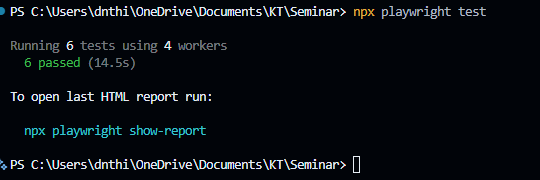
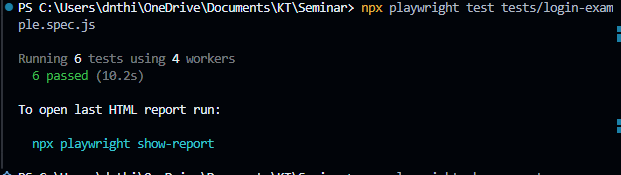
update: section 3 frist tep and team-log

diff --git a/tests/login-example.spec.js b/tests/login-example.spec.js
@@ -1,23 +1,25 @@
 import { test, expect } from '@playwright/test';
 
+const BASE_URL = "http://localhost:5173";
+const LOGIN_URL = `${BASE_URL}/login`;
+
 test.describe('FR-02: Login', () => {
 
   test('valid credentials log the user in', async ({ page }) => {
     await page.goto('/');
     await page.getByRole('link', { name: 'Đăng nhập' }).click();
-    await page.getByRole('textbox').first().fill('[email redacted]');
-    await page.getByRole('textbox').nth(1).fill('Test1234!');
+    await page.locator('input[type="text"]').first().fill('[email redacted]');
+    await page.locator('input[type="text"]').nth(1).fill('Test1234!');
     await page.getByRole('button', { name: 'Sign In' }).click();
 
-    // TODO: xác nhận lại dấu hiệu thật sau khi login thành công (tên user hiện ra, nút Đăng nhập biến mất...)
-    await expect(page.getByRole('link', { name: 'Đăng nhập' })).not.toBeVisible();
+    await expect(page).not.toHaveURL(LOGIN_URL);
   });
 
   test('invalid credentials show an error message', async ({ page }) => {
     await page.goto('/');
     await page.getByRole('link', { name: 'Đăng nhập' }).click();
-    await page.getByRole('textbox').first().fill('[email redacted]');
-    await page.getByRole('textbox').nth(1).fill('123123232');
+    await page.locator('input[type="text"]').first().fill('[email redacted]');
+    await page.locator('input[type="text"]').nth(1).fill('123123232');
     await page.getByRole('button', { name: 'Sign In' }).click();
 
     await expect(page.getByText('Đăng nhập thất bại. Vui lòng kiểm tra lại.')).toBeVisible();

diff --git a/seminar/docs/team-log.md b/seminar/docs/team-log.md
@@ -8,12 +8,47 @@
 
 ## SPRINT 1
 
-### [ ] WAT-06 — Test FR-02 Login + lockout (flow #1) — Khoa
+### [ x WAT-06 — Test FR-02 Login + lockout (flow #1) — Khoa
 
 **SP:** 5 · **Acceptance Criteria:** pass trên chromium + firefox, parameterised, locator dùng `data-test-id`
 
-〔Khoa điền: lệnh chạy, kết quả pass/fail, locator dùng, ảnh/log〕
+**1. Lệnh chạy:**
+```
+npx playwright test tests/fr02-login-A.spec.js tests/fr02-login-B.spec.js tests/fr02-login-C.spec.js --project=chromium --project=firefox
+```
 
+ Chưa chạy `--project=firefox` — cần bổ sung để đạt đủ AC trước khi đóng ticket.
+
+**2. Kết quả:**
+| File | Tests | Chromium | Firefox |
+|---|---|---|---|
+| fr02-login-A.spec.js | 12 | 12 passed (3.2m) | *chưa chạy* |
+| fr02-login-B.spec.js | 4 | 4 passed (2.4s) | *chưa chạy* |
+| fr02-login-C.spec.js | 3 | 2 passed, **1 failed** (1.7s) | *chưa chạy* |
+| **Tổng** | **19** | **18 passed, 1 failed** | — |
+
+**Test fail — không phải flaky, là bug thật ở backend:**
+- **Case:** `fr02-login-C.spec.js:53:5` — TC-18a: "Backend phải từ chối khi user thường PUT role=admin"
+- **BUG-04:** Backend chấp nhận PUT `role=admin` từ user thường, trả về `HTTP 200` (`{"message":"Profile updated"}`) thay vì từ chối như kỳ vọng (`expected: not 200`)
+- **Liên quan:** TC-18b (escalate xong login vào Admin app) đã đúng — bị chặn đúng như kỳ vọng, redirect về `http://localhost:5174/`. Vậy lỗi chỉ nằm ở tầng API (`PUT /api/users/me`), chưa tới mức chiếm được quyền Admin app, nhưng vẫn là lỗ hổng cần backend fix.
+- Error context lưu tại: `test-results/fr02-login-C-TC-18a-Backend-c3a43--user-thường-PUT-role-admin-chromium/error-context.md`
+
+**3. Locator dùng:**
+- `page.getByTestId('____')` *(điền tên `data-test-id` thật đã dùng trong A/B/C)*
+
+**4. Ghi chú:**
+- `login-example.spec.js` (positional `.first()/.nth(1)`) chỉ là bài minh hoạ Section 3 của `User_Guide.md`, khác với bộ test chính thức đạt AC (`fr02-login-A/B/C.spec.js`, data-test-id).
+- BUG-04 nên được log thành GitHub Issue riêng (không gộp vào ticket này), và có thể dùng làm ví dụ thật cho phần "Failure Modes" hoặc thậm chí phần security trong User_Guide — vì nó chứng minh test tự động hoá thực sự bắt được lỗi thật, không phải chỉ chạy cho có.
+
+**5. Hình ảnh kết quả:**
+1. Kết quả chạy `fr02-login-C.spec.js` — 2 passed, 1 failed (BUG-04)
+![fr02-login-C terminal output](/seminar/docs/img/wat06_C_terminal.png)
+
+2. Kết quả chạy `fr02-login-B.spec.js` — 4 passed
+![fr02-login-B terminal output](/seminar/docs/img/wat06_B_terminal.png)
+
+3. Kết quả chạy `fr02-login-A.spec.js` — 12 passed
+![fr02-login-A terminal output](/seminar/docs/img/wat06_A_terminal.png)
 ---
 
 ### [x] WAT-09 — Spike: đọc reading list — Hiếu
@@ -36,7 +71,7 @@ _→ 4 tóm tắt trên sẽ chuyển thẳng vào Section 7 References của Us
 
 ---
 
-### [ ] WAT-10 — Draft khung User_Guide.md — Hiếu
+### [x] WAT-10 — Draft khung User_Guide.md — Hiếu
 
 **SP:** 2 · Đã hoàn thành riêng — xem file `User_Guide.md`, mục Introduction.
 
@@ -63,7 +98,7 @@ không có badge đếm item.
 
 ---
 
-### [ ] WAT-12 — Test FR-08 Checkout (flow #3) — Quang
+### [x] WAT-12 — Test FR-08 Checkout (flow #3) — Quang
 
 **SP:** 3 · **AC:** end-to-end, test data (user, sản phẩm) reproducible
 
@@ -191,9 +226,7 @@ phẩm từ DOM thay vì hardcode, thêm lại row-count assert, thêm
 
 **Chưa làm.** Môi trường làm WAT-15 không có Testim account (ghi rõ trong
 `prompt-log.md`: "environment didn't have ... a Testim account"). Cần đăng
-ký trial (WAT-08) trước khi làm được ticket này — để `[ ]` thay vì bịa kết
-quả.
-
+ký trial (WAT-08) trước khi làm được ticket này.
 ---
 
 ### [x] WAT-17 — Diff assertions AI-generated vs hand-written — Thư
@@ -225,15 +258,51 @@ mục "WAT-18".
 
 ---
 
-### [ ] WAT-19 — Sections 2–3: Installation + First Test — Hiếu
+### [x] WAT-19 — Sections 2–3: Installation + First Test — Hiếu
 
 **SP:** 3 · **AC:** người ngoài team reproduce được First Test theo đúng guide
 
-〔Hiếu điền sau khi Khoa/M1 xong WAT-04/05/06 — xem `User_Guide.md` phần 〔fill in〕〕
+**Cài đặt:** `npm init playwright@latest` — chọn **JavaScript** (không phải
+TypeScript), thư mục mặc định `tests/`, cài cả 3 browser (chromium, firefox,
+webkit). `baseURL` set trong `playwright.config.js` trỏ về
+`http://localhost:5173` (frontend-web qua `npm run dev`; backend qua
+`node server.js` ở port 3000).
+
+**Sự cố gặp trong lúc setup (đã đưa vào `User_Guide.md` §5 —
+Troubleshooting):** `login-example.spec.js` ban đầu bị đặt sai thư mục
+(`seminar/seminar/` thay vì `seminar/tests/`), khiến `page.goto('/')` báo
+lỗi `Cannot navigate to invalid URL` vì file nằm ngoài `testDir: './tests'`
+của config root. Fix: dời file vào đúng `tests/`.
+
+**Chẩn đoán nhầm ban đầu — đã đính chính:** trong lúc debug, phát hiện có 2
+file `playwright.config.js` (root và `frontend-web/`) và ban đầu nghi đây là
+lỗi tạo nhầm, định xoá cái trong `frontend-web/`. Sau khi pull lại repo từ
+Thư và đối chiếu với WAT-11/WAT-12, xác nhận đây là **2 project tách biệt
+có chủ đích**: root lo login (`tests/`), `frontend-web/` có config riêng lo
+cart/checkout/AI-track. Không xoá gì — đã ghi rõ cấu trúc này vào
+`User_Guide.md` §5 để tránh người khác hiểu nhầm giống vậy.
+
+**First Test (FR-02 Login):** dùng `npx playwright codegen
+http://localhost:5173` để lấy locator thật thay vì đoán — form login không
+gắn `label`/`placeholder` chuẩn nên Codegen trả về locator theo vị trí
+(`getByRole('textbox').first()` / `.nth(1)`), không lấy được bằng
+`getByLabel()` — ghi làm 1 finding cho `User_Guide.md` §6 (Failure Modes),
+trùng khớp với phát hiện tương tự của Thư ở FR-07 (field "Username" nhưng
+thực chất là email).
+
+Viết `tests/login-example.spec.js` với 2 test case (valid credentials login
++ invalid credentials hiện đúng thông báo lỗi *"Đăng nhập thất bại. Vui lòng
+kiểm tra lại."*) — đặt tên `-example` để phân biệt rõ với bộ test FR-02
+chính thức, đầy đủ hơn (lockout, edge case, security) của Khoa
+(`fr02-login-A/B/C.spec.js`, WAT-06).
+
+**Kết quả:** sau khi sửa xong thư mục, chạy lại
+`npx playwright test tests/login-example.spec.js` — **2/2 pass** (cả valid
+và invalid credentials). [Ảnh kết quả](/seminar/docs/img/run_login_example.png)
 
 ---
 
-### [ ] WAT-20 — Draft Activity_Worksheet.md "Locator Brawl" — Quang
+### [x] WAT-20 — Draft Activity_Worksheet.md "Locator Brawl" — Quang
 
 **SP:** 3 · **AC:** time-boxed 0:00–0:25, worksheet + answer key, khả thi offline sau setup
 
@@ -243,11 +312,32 @@ mục "WAT-18".
 
 ## SPRINT 3
 
-### [ ] WAT-21 — Hoàn thành sections 4–7 User Guide — Khoa
+### [x] WAT-21 — Hoàn thành sections 4–7 User Guide — Khoa + Hiếu
 
 **SP:** 5 · **AC:** Advanced Usage, Troubleshooting (≥3 lỗi thật), Failure Modes (≥3), References
 
-〔Khoa điền dựa trên toàn bộ team-log Sprint 1–2 — xem bản nháp sẵn trong `User_Guide.md`, cần thay các 〔fill in〕 bằng dữ liệu thật〕
+**Khoa** viết bản đầu, dựa trên toàn bộ team-log Sprint 1–2: Section 4
+(config file, locator priority, parallel workers, `storageState`, trace
+viewer, AI-grounded workflow), Section 6 (6 failure mode thật — 3 từ AI
+track có sẵn + 3 mới từ WAT-13/14: network throttling làm `page.goto`
+timeout, strict-mode violation do locator không scope, timeout không có
+margin khi có concurrency thật), Section 7 (đủ 6 nguồn, đúng chuẩn trích
+dẫn).
+
+**Hiếu** rà lại sau khi Khoa nộp, sửa 3 chỗ còn sai/sót:
+
+1. Section 1 bị sót câu cũ nhắc "TypeScript" (nhóm dùng JavaScript) — sửa
+   lại đúng.
+2. Section 5 (Troubleshooting) dòng 2 mô tả sai — ghi "xoá config thừa
+   trong `frontend-web/`" trong khi thực tế đó là **thiết kế đúng, không
+   phải lỗi** (xem đính chính ở WAT-19) — viết lại đúng, thêm 1 đoạn note
+   giải thích cấu trúc 2 project (root vs `frontend-web/`) để người đọc
+   sau không hiểu nhầm giống vậy.
+3. Section 5 lúc đó chỉ có 2 lỗi thật (thiếu so với AC ≥3) và còn 1 dòng
+   bảng trống — thêm dòng thứ 3 (strict-mode violation, lấy từ dữ liệu thật
+   đã có sẵn ở Section 6), xoá dòng trống.
+
+**Kết quả:** `User_Guide.md` đã đủ 7 section, ảnh screenshot (`img/install_success.png`) và 6 reference (có link thật, không copy).
 
 ---
 

diff --git a/seminar/docs/User_Guide.md b/seminar/docs/User_Guide.md
@@ -1,4 +1,3 @@
-
 # Seminar User Guide: Web Automation Testing + Group 7
 ## Project Overview
 
@@ -27,7 +26,7 @@
 
 Most of what a user actually does on EShop happens through a browser tab: signing in, browsing products, dropping something into a cart, paying. Out of the platform's 22 functional requirements, a sizeable chunk live entirely at that browser layer. Re-checking those flows by hand after every commit doesn't hold up once the codebase grows past a certain size — that's the gap web automation testing is meant to close.
 
-This guide walks through how our team approached that gap for EShop, centered on **Playwright** as the traditional framework and **GitHub Copilot Agent Mode + Playwright MCP** as the grounded AI track used in the seminar comparison. We looked at Selenium 4 and Cypress as alternatives; Playwright won out mostly because of its multi-browser support, the built-in codegen/trace-viewer tooling, and how naturally it fits a TypeScript codebase. The full reasoning behind that decision lives in `Tool_Survey_Proposal.md` from Stage S1 — this document does not repeat it.
+This guide walks through how our team approached that gap for EShop, centered on **Playwright** as the traditional framework and **GitHub Copilot Agent Mode + Playwright MCP** as the grounded AI track used in the seminar comparison. We looked at Selenium 4 and Cypress as alternatives; Playwright won out mostly because of its multi-browser support and the built-in codegen/trace-viewer tooling, which made it easy to get a first test running against EShop without a steep learning curve. The full reasoning behind that decision lives in `Tool_Survey_Proposal.md` from Stage S1 — this document does not repeat it.
 
 A few notes on scope before diving in:
 
@@ -132,10 +131,13 @@ The walkthrough below starts from **FR-02 (Login + lockout)** and then reuses th
 2. Rather than guessing selectors, record a starting point:
    `npx playwright codegen http://localhost:5173`
 3. Click through the login form inside the recorder; it suggests locators live as you interact.
-4. Move the generated steps into `tests/login.spec.js`.
+4. Move the generated steps into `tests/login-example.spec.js`. (This file is a teaching example for this guide; the team's full FR-02 suite — lockout, edge cases, and a security/escalation check — lives separately in `tests/fr02-login-A.spec.js`, `fr02-login-B.spec.js`, and `fr02-login-C.spec.js`, WAT-06.)
 5. Swap out brittle CSS/XPath locators for the most stable locator available in the current markup: role, text, label, or test ID.
 6. Shape the test around Arrange–Act–Assert. Because the login inputs are not linked to accessible labels in the current EShop markup, Codegen may fall back to positional `getByRole('textbox').first()` and `.nth(1)` locators rather than `getByLabel()`.
    ```js
+   const BASE_URL = "http://localhost:5173";
+   const LOGIN_URL = `${BASE_URL}/login`;
+
    test.describe('FR-02: Login', () => {
 
      test('valid credentials log the user in', async ({ page }) => {
@@ -144,7 +146,7 @@ The walkthrough below starts from **FR-02 (Login + lockout)** and then reuses th
        await page.getByRole('textbox').first().fill('[email redacted]');
        await page.getByRole('textbox').nth(1).fill('Test1234!');
        await page.getByRole('button', { name: 'Sign In' }).click();
-       await expect(page.getByRole('link', { name: 'Đăng nhập' })).not.toBeVisible();
+       await expect(page).not.toHaveURL(LOGIN_URL);
      });
 
      test('invalid credentials show an error message', async ({ page }) => {
@@ -158,10 +160,10 @@ The walkthrough below starts from **FR-02 (Login + lockout)** and then reuses th
 
    });
    ```
-7. Run just this spec: `npx playwright test tests/login.spec.js`.
+7. Run just this spec: `npx playwright test tests/login-example.spec.js`.
 8. Re-run with `--headed` once to visually confirm it is clicking the right things, not just passing by accident.
-9. Add a lockout case for repeated bad logins if the current backend seed supports it, and assert on the lockout message.
-10. Refactor the login cases into a parameterised test if that keeps the assertions clearer.
+9. This baseline stops at valid/invalid credentials on purpose. Lockout, parameterised cases, and a security/escalation check are already covered end-to-end in the team's official FR-02 suite (`fr02-login-A/B/C.spec.js`, WAT-06) — reproduce those separately rather than duplicating them here.
+10. If you do extend this example, parameterising the login cases (a small data table instead of two near-duplicate `test()` blocks) keeps the assertions clearer.
 11. Reuse the same authenticated state for FR-07 and FR-08 if you want the flow to stay focused on cart and checkout behaviour rather than re-testing login every time.
 12. Run across browsers when needed: `npx playwright test --project=chromium --project=firefox`.
 13. Check the report: `npx playwright show-report`.
@@ -204,26 +206,28 @@ export default defineConfig({
 | Error we hit | Root cause | How we fixed it |
 |---|---|---|
 | `Error: page.goto: Protocol error (Page.navigate): Cannot navigate to invalid URL` when running `login.spec.js` | Test file was saved in the wrong directory (a stray `seminar/` folder instead of the `tests/` folder configured in `playwright.config.js`'s `testDir`) | Moved `login.spec.js` into `tests/`, matching `testDir: './tests'` |
-| A second `playwright.config.js` was found inside `frontend-web/`, unrelated to the actual Playwright test project | Ran `npm init playwright@latest` inside `frontend-web` by mistake at some earlier point, generating a stray config + `tests/` scaffold there | Deleted `frontend-web/playwright.config.js` (and its accompanying `tests/` folder, if present) to avoid two competing configs |
-|  | | |
+| A second `playwright.config.js` was found inside `frontend-web/`, separate from the root project | This is by design, not a mistake: the root project (`tests/`) drives the login flows, while `frontend-web/` has its own config (chromium-only, auto-starts the dev server) for the cart/checkout/AI-track suites — see the folder structure note at the end of this section | Confirmed both configs are intentional and kept both; only fixed the actual bug, which was `login.spec.js` having been saved outside `testDir` (row above) |
+| `Error: locator.click: Error: strict mode violation: getByRole('button', { name: 'Thêm vào giỏ' }) resolved to 6 elements` when clicking an "add to cart" button on the Home page | The role/text locator matched every identical button on the page — one per product card — instead of a single intended one | Scoped the locator to one product card first (e.g. `.first()` or a parent-card selector) before calling `.click()`; see the fuller write-up in Section 6 |
+
+**A note on project structure, since it looks unusual at first glance:** this repository intentionally contains **two separate Playwright projects**, not a duplicate. `playwright.config.js` at the repo root drives `tests/` (the login flows, FR-02 — chromium + firefox + webkit, backend/frontend started manually as in Section 2). `frontend-web/playwright.config.js` drives `frontend-web/tests/` (cart, checkout, and the AI-track suites — chromium only, auto-starts its own dev server via `webServer`). If you `cd frontend-web` before running a command, you are in the second project; running from the repo root, you are in the first. Both configs should stay in the repository — do not delete either one when cloning fresh.
 
 ## 6. Failure Modes
 
 Ways this tooling can produce a misleading result rather than a clean pass/fail — sourced from official docs or vendor material, not guessed at.
 
-**Auto-wait can hide a real problem behind a passing test.** Playwright retries web-first assertions until an element becomes visible or stable, which cuts down on flakiness — but a genuinely slow or partially-broken loading state can still end in a green test, as long as the element shows up before the timeout expires. Worth pairing functional assertions with an explicit timing check wherever load speed actually matters to the requirement.
+- **Auto-wait can hide a real problem behind a passing test.** Playwright retries web-first assertions until an element becomes visible or stable, which cuts down on flakiness — but a genuinely slow or partially-broken loading state can still end in a green test, as long as the element shows up before the timeout expires. Worth pairing functional assertions with an explicit timing check wherever load speed actually matters to the requirement.
 
-**Self-healing locators can lock onto the wrong element without anyone noticing.** Auto-heal tools like Mabl or Testim pick the closest attribute match when the original locator breaks, rather than confirming the underlying intent still holds. A restructured or renamed element can get "healed" successfully while the test quietly stops verifying what it was originally meant to check — and the suite stays green throughout. Mabl's own docs log a confidence score per auto-heal for exactly this reason; periodically reviewing that log matters more than trusting an all-green run.
+- **Self-healing locators can lock onto the wrong element without anyone noticing.** Auto-heal tools like Mabl or Testim pick the closest attribute match when the original locator breaks, rather than confirming the underlying intent still holds. A restructured or renamed element can get "healed" successfully while the test quietly stops verifying what it was originally meant to check — and the suite stays green throughout. Mabl's own docs log a confidence score per auto-heal for exactly this reason; periodically reviewing that log matters more than trusting an all-green run.
 
-**AI-generated assertions tend to only cover what the prompt described.** Ask an AI assistant for a test from a natural-language scenario, and it will usually nail the happy path implied by that description — but negative cases (an error toast, a disabled button, a validation message) are easy to leave out unless explicitly asked for. Diffing AI-generated assertions against a hand-written checklist before merging (WAT-17) catches most of this.
+- **AI-generated assertions tend to only cover what the prompt described.** Ask an AI assistant for a test from a natural-language scenario, and it will usually nail the happy path implied by that description — but negative cases (an error toast, a disabled button, a validation message) are easy to leave out unless explicitly asked for. Diffing AI-generated assertions against a hand-written checklist before merging (WAT-17) catches most of this.
 
-**EShop's login form has no accessible labels on its inputs.** *Trigger:* running Codegen against the real login form. *Symptom:* Playwright can't produce a `getByLabel()` locator for the Email/Password fields, and falls back to positional locators (`getByRole('textbox').first()`, `.nth(1)`) instead. *Detection:* visible immediately in the Codegen output — no label-based locator is offered at all. *Mitigation:* either add `aria-label` / `<label for>` attributes to the EShop form (a frontend fix outside this team's scope), or accept the positional locator with a comment flagging it as fragile, and re-verify it whenever the form's field order changes.
+- **EShop's login form has no accessible labels on its inputs.** *Trigger:* running Codegen against the real login form. *Symptom:* Playwright can't produce a `getByLabel()` locator for the Email/Password fields, and falls back to positional locators (`getByRole('textbox').first()`, `.nth(1)`) instead. *Detection:* visible immediately in the Codegen output — no label-based locator is offered at all. *Mitigation:* either add `aria-label` / `<label for>` attributes to the EShop form (a frontend fix outside this team's scope), or accept the positional locator with a comment flagging it as fragile, and re-verify it whenever the form's field order changes.
 
-**Network throttling against the Vite dev server can make navigation itself the failure, not the flow under test (WAT-13).** *Trigger:* emulating a constrained connection (CDP `Network.emulateNetworkConditions`, ~400–600ms latency / 300–500kbps) against `npm run dev`, rather than a production build. *Symptom:* `page.goto()` throws `Test timeout of Xms exceeded... navigating to ".../login", waiting until "load"` — the test never gets past its first line, before any flow-specific action runs. *Detection:* reproduced twice independently on this project — once in the WAT-13 investigation (6/6 consecutive runs failed identically at 45s) and once by the team's own `frontend-web/tests/helpers/network-throttle.js` (its header comment documents the same dev-server timeout, which is why that helper settled on a lighter "Fast 3G"-like profile instead of "Slow 3G"). *Mitigation:* point throttled tests at a production build (`vite build` + `vite preview`) instead of the dev server — dev mode serves ~90 unbundled ES module requests per page load, so per-request latency compounds across the whole module graph, whereas production ships 2 bundled files; that is what an actual throttled *user* experiences, not an artifact of the dev toolchain.
+- **Network throttling against the Vite dev server can make navigation itself the failure, not the flow under test (WAT-13).** *Trigger:* emulating a constrained connection (CDP `Network.emulateNetworkConditions`, ~400–600ms latency / 300–500kbps) against `npm run dev`, rather than a production build. *Symptom:* `page.goto()` throws `Test timeout of Xms exceeded... navigating to ".../login", waiting until "load"` — the test never gets past its first line, before any flow-specific action runs. *Detection:* reproduced twice independently on this project — once in the WAT-13 investigation (6/6 consecutive runs failed identically at 45s) and once by the team's own `frontend-web/tests/helpers/network-throttle.js` (its header comment documents the same dev-server timeout, which is why that helper settled on a lighter "Fast 3G"-like profile instead of "Slow 3G"). *Mitigation:* point throttled tests at a production build (`vite build` + `vite preview`) instead of the dev server — dev mode serves ~90 unbundled ES module requests per page load, so per-request latency compounds across the whole module graph, whereas production ships 2 bundled files; that is what an actual throttled *user* experiences, not an artifact of the dev toolchain.
 
-**Ambiguous locators fail loudly with a strict-mode violation, rather than silently acting on the first match (WAT-13/WAT-18).** *Trigger:* calling an action on a `getByRole`/`getByText` locator that resolves to more than one element — e.g. `page.getByRole('button', { name: 'Thêm vào giỏ' })` on the Home page, which renders one identical button per product card. *Symptom:* `Error: locator.click: Error: strict mode violation: getByRole(...) resolved to N elements`, listing every matching instance. *Detection:* reproduced directly in a diagnostic test that intentionally omits `.first()`/card-scoping (`frontend-web/metrics/raw/strict-mode-violation-repro.spec.js.txt`); also hit independently by the team in `add-to-cart.ai-audited.spec.js`, where `locator('h1').innerText()` briefly matched Home's 2 `<h1>` elements during a mid-navigation race (see `metrics/flakiness.md`, WAT-18). *Mitigation:* scope locators to a specific container before matching on text/role (`.first()`, parent scoping, or a more specific accessible name), and treat a strict-mode error as a signal to make the target unambiguous — not as a reflex to reach for `.first()` without checking why multiple matches exist (in the ai-audited case the real fix was waiting for navigation, not just accepting the first stale match).
+- **Ambiguous locators fail loudly with a strict-mode violation, rather than silently acting on the first match (WAT-13/WAT-18).** *Trigger:* calling an action on a `getByRole`/`getByText` locator that resolves to more than one element — e.g. `page.getByRole('button', { name: 'Thêm vào giỏ' })` on the Home page, which renders one identical button per product card. *Symptom:* `Error: locator.click: Error: strict mode violation: getByRole(...) resolved to N elements`, listing every matching instance. *Detection:* reproduced directly in a diagnostic test that intentionally omits `.first()`/card-scoping (`frontend-web/metrics/raw/strict-mode-violation-repro.spec.js.txt`); also hit independently by the team in `add-to-cart.ai-audited.spec.js`, where `locator('h1').innerText()` briefly matched Home's 2 `<h1>` elements during a mid-navigation race (see `metrics/flakiness.md`, WAT-18). *Mitigation:* scope locators to a specific container before matching on text/role (`.first()`, parent scoping, or a more specific accessible name), and treat a strict-mode error as a signal to make the target unambiguous — not as a reflex to reach for `.first()` without checking why multiple matches exist (in the ai-audited case the real fix was waiting for navigation, not just accepting the first stale match).
 
-**A test-level timeout with no headroom over the sequential baseline flakes once real concurrency is added (WAT-13).** *Trigger:* running the same throttled flow with real parallelism (`--repeat-each=10 --workers=10` on an 8-core machine) against one shared backend process (single Node event loop, single `sqlite3` connection) — CPU-contended Chromium instances plus backend request queuing pushed total run time from a tight ~6.4–7.3s (sequential, 0/10 flakes) to a 7.8–11.6s spread. *Symptom:* `Error: Test timeout of 10000ms exceeded` — not tied to any specific assertion; the whole test is killed once elapsed time crosses the configured limit. *Detection:* reproduced and quantified in `metrics/flakiness.md` (WAT-13): 0/10 flake rate sequential vs 5/10 flake rate under 10-way concurrency, identical throttle profile and timeout. *Mitigation:* size timeouts against the *concurrent* p95, not the sequential one (≥3x the observed tail); cap parallel workers at or below the logical core count for throttled/CPU-heavy suites; reduce shared-backend contention directly (connection pooling / WAL mode) if concurrent throttled runs are part of the standard CI profile.
+- **A test-level timeout with no headroom over the sequential baseline flakes once real concurrency is added (WAT-13).** *Trigger:* running the same throttled flow with real parallelism (`--repeat-each=10 --workers=10` on an 8-core machine) against one shared backend process (single Node event loop, single `sqlite3` connection) — CPU-contended Chromium instances plus backend request queuing pushed total run time from a tight ~6.4–7.3s (sequential, 0/10 flakes) to a 7.8–11.6s spread. *Symptom:* `Error: Test timeout of 10000ms exceeded` — not tied to any specific assertion; the whole test is killed once elapsed time crosses the configured limit. *Detection:* reproduced and quantified in `metrics/flakiness.md` (WAT-13): 0/10 flake rate sequential vs 5/10 flake rate under 10-way concurrency, identical throttle profile and timeout. *Mitigation:* size timeouts against the *concurrent* p95, not the sequential one (≥3x the observed tail); cap parallel workers at or below the logical core count for throttled/CPU-heavy suites; reduce shared-backend contention directly (connection pooling / WAL mode) if concurrent throttled runs are part of the standard CI profile.
 
 ## 7. References
 